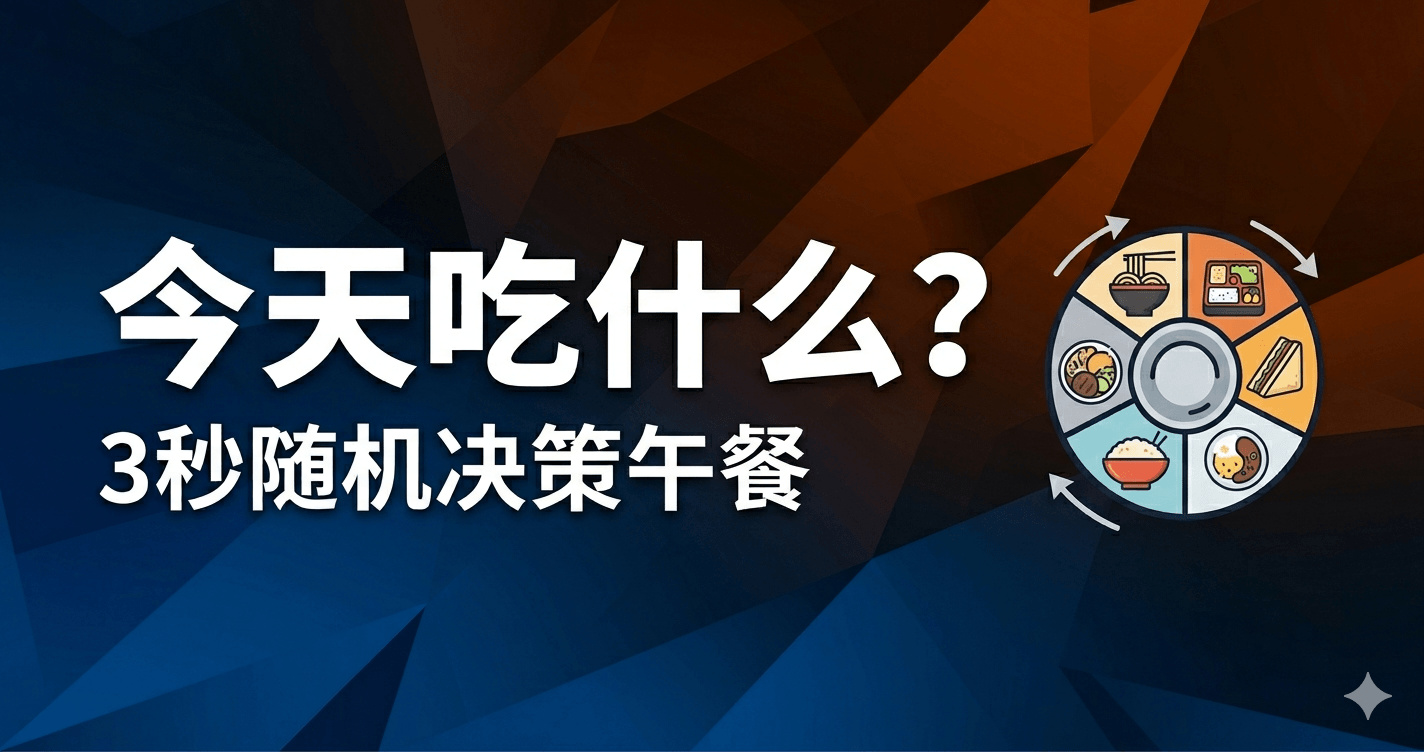
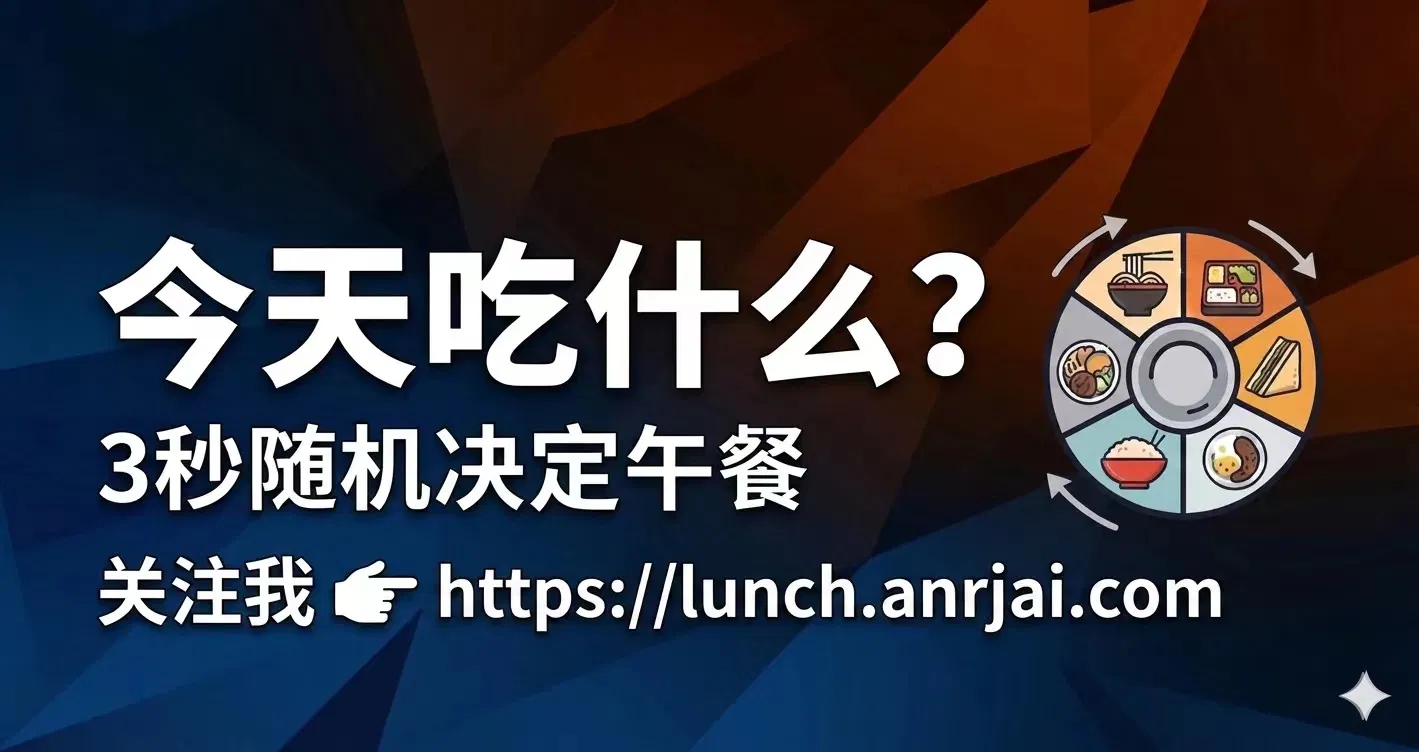
Add files via upload

diff --git a/couple.html b/couple.html
@@ -167,51 +167,19 @@
       </div>
     </div>
   </div>
+  <h2>情侣约会吃什么比较合适？</h2>
 
-  <section class="seo-text">
-    <h2>午餐选择困难怎么办？</h2>
-    <p>
-      每天中午不知道吃什么？很多人都会遇到“午餐选择困难”问题，打开外卖平台翻了十几分钟，最后还是不知道点什么。
-    </p>
-    <p>
-      本随机午餐转盘工具，可以帮助你快速随机决定今天吃什么，支持预算筛选、口味偏好、最近记录等功能，减少纠结时间，让午餐选择更轻松。
-    </p>
+  <p>
+  很多情侣约会时都会遇到一个问题：今天吃什么？火锅、烤肉、西餐、寿司、地方特色菜都是常见选择。不同预算和不同场景适合不同餐饮类型。
+  </p>
   
-    <h2>适合哪些人使用？</h2>
-    <ul class="seo-list">
-      <li>每天纠结午餐吃什么的上班族</li>
-      <li>经常点外卖的学生党</li>
-      <li>情侣随机决定吃什么</li>
-      <li>聚餐前快速决定餐饮类型</li>
-      <li>不知道今天吃什么的人</li>
-    </ul>
+  <p>
+  情侣吃饭不仅是填饱肚子，也是交流感情的重要时间。随机情侣用餐推荐工具可以帮助双方快速获得灵感，减少选择困难。
+  </p>
   
-    <h2>热门午餐推荐</h2>
-    <p>
-      火锅、黄焖鸡、麻辣烫、炸鸡、寿司、汉堡、盖浇饭、轻食沙拉、拉面、牛肉饭等都可以随机推荐。
-    </p>
-  
-    <h2>常见问题 FAQ</h2>
-    <h3>这个午餐转盘是随机的吗？</h3>
-    <p>
-      是的，系统会根据你的预算和口味偏好，随机推荐适合的午餐选择。
-    </p>
-  
-    <h3>需要开启定位吗？</h3>
-    <p>
-      不需要。即使关闭定位，也可以正常使用全国随机午餐推荐功能。
-    </p>
-  
-    <h3>是否会自动跳转外卖平台？</h3>
-    <p>
-      不会。所有平台入口均为用户主动点击，无默认跳转、无强制下载。
-    </p>
-  
-    <h3>支持全国使用吗？</h3>
-    <p>
-      支持。无论你在国内哪个城市，都可以正常使用随机午餐功能。
-    </p>
-  </section>
+  <p>
+  无论是第一次约会、纪念日还是周末聚餐，都可以通过随机推荐发现新的美食体验，让每次约会更有新鲜感。
+  </p>
   
   <section class="related-links">
     <h2>🍽 更多选择工具</h2>

diff --git a/diet.html b/diet.html
@@ -171,51 +171,20 @@
     </div>
   </div>
 
-  <section class="seo-text">
-    <h2>早餐选择困难怎么办？</h2>
-    <p>
-      每天中午不知道吃什么？很多人都会遇到“早餐选择困难”问题，打开外卖平台翻了十几分钟，最后还是不知道点什么。
-    </p>
-    <p>
-      本随机早餐转盘工具，可以帮助你快速随机决定今天吃什么，支持预算筛选、口味偏好、最近记录等功能，减少纠结时间，让早餐选择更轻松。
-    </p>
+  <h2>减脂期间吃什么比较好？</h2>
+
+  <p>
+  很多人在减脂期间都会遇到不知道吃什么的问题。合理的减脂饮食并不是节食，而是在保证营养的前提下控制热量摄入。
+  </p>
   
-    <h2>适合哪些人使用？</h2>
-    <ul class="seo-list">
-      <li>每天纠结早餐吃什么的上班族</li>
-      <li>经常点外卖的学生党</li>
-      <li>情侣随机决定吃什么</li>
-      <li>聚餐前快速决定餐饮类型</li>
-      <li>不知道今天吃什么的人</li>
-    </ul>
+  <p>
+  常见减脂餐包括鸡胸肉、鸡蛋、牛肉、蔬菜沙拉、燕麦、水果以及低糖食品。随机减脂餐推荐工具能够帮助用户获得更多饮食灵感。
+  </p>
   
-    <h2>热门早餐推荐</h2>
-    <p>
-      火锅、黄焖鸡、麻辣烫、炸鸡、寿司、汉堡、盖浇饭、轻食沙拉、拉面、牛肉饭等都可以随机推荐。
-    </p>
-  
-    <h2>常见问题 FAQ</h2>
-    <h3>这个早餐转盘是随机的吗？</h3>
-    <p>
-      是的，系统会根据你的预算和口味偏好，随机推荐适合的早餐选择。
-    </p>
-  
-    <h3>需要开启定位吗？</h3>
-    <p>
-      不需要。即使关闭定位，也可以正常使用全国随机早餐推荐功能。
-    </p>
-  
-    <h3>是否会自动跳转外卖平台？</h3>
-    <p>
-      不会。所有平台入口均为用户主动点击，无默认跳转、无强制下载。
-    </p>
-  
-    <h3>支持全国使用吗？</h3>
-    <p>
-      支持。无论你在国内哪个城市，都可以正常使用随机早餐功能。
-    </p>
-  </section>
-  
+  <p>
+  长期坚持规律饮食和适量运动，比短期极端节食更容易达到理想效果。科学饮食是保持健康生活方式的重要组成部分。
+  </p>
+    
   <section class="related-links">
     <h2>🍽 更多选择工具</h2>
     <ul>

diff --git a/breakfast.html b/breakfast.html
@@ -171,50 +171,19 @@
     </div>
   </div>
 
-  <section class="seo-text">
-    <h2>早餐选择困难怎么办？</h2>
-    <p>
-      每天中午不知道吃什么？很多人都会遇到“早餐选择困难”问题，打开外卖平台翻了十几分钟，最后还是不知道点什么。
-    </p>
-    <p>
-      本随机早餐转盘工具，可以帮助你快速随机决定今天吃什么，支持预算筛选、口味偏好、最近记录等功能，减少纠结时间，让早餐选择更轻松。
-    </p>
-  
-    <h2>适合哪些人使用？</h2>
-    <ul class="seo-list">
-      <li>每天纠结早餐吃什么的上班族</li>
-      <li>经常点外卖的学生党</li>
-      <li>情侣随机决定吃什么</li>
-      <li>聚餐前快速决定餐饮类型</li>
-      <li>不知道今天吃什么的人</li>
-    </ul>
-  
-    <h2>热门早餐推荐</h2>
-    <p>
-      火锅、黄焖鸡、麻辣烫、炸鸡、寿司、汉堡、盖浇饭、轻食沙拉、拉面、牛肉饭等都可以随机推荐。
-    </p>
-  
-    <h2>常见问题 FAQ</h2>
-    <h3>这个早餐转盘是随机的吗？</h3>
-    <p>
-      是的，系统会根据你的预算和口味偏好，随机推荐适合的早餐选择。
-    </p>
-  
-    <h3>需要开启定位吗？</h3>
-    <p>
-      不需要。即使关闭定位，也可以正常使用全国随机早餐推荐功能。
-    </p>
-  
-    <h3>是否会自动跳转外卖平台？</h3>
-    <p>
-      不会。所有平台入口均为用户主动点击，无默认跳转、无强制下载。
-    </p>
-  
-    <h3>支持全国使用吗？</h3>
-    <p>
-      支持。无论你在国内哪个城市，都可以正常使用随机早餐功能。
-    </p>
-  </section>
+  <h2>早餐吃什么比较好？</h2>
+
+<p>
+早餐是一天的重要开始。很多上班族和学生每天早上都会遇到不知道吃什么的问题。常见早餐包括包子、豆浆、鸡蛋、三明治、燕麦、牛奶和水果等。
+</p>
+
+<p>
+使用随机早餐选择工具，可以快速获得早餐灵感，减少纠结时间。对于赶时间的人来说，提前决定早餐内容能够提高效率。
+</p>
+
+<p>
+合理的早餐搭配有助于补充能量，提高学习和工作效率。建议适当搭配蛋白质、碳水化合物和水果，让早餐更加均衡。
+</p>
   
   <section class="related-links">
     <h2>🍽 更多选择工具</h2>

diff --git a/dinner.html b/dinner.html
@@ -171,50 +171,19 @@
     </div>
   </div>
 
-  <section class="seo-text">
-    <h2>早餐选择困难怎么办？</h2>
-    <p>
-      每天中午不知道吃什么？很多人都会遇到“早餐选择困难”问题，打开外卖平台翻了十几分钟，最后还是不知道点什么。
-    </p>
-    <p>
-      本随机早餐转盘工具，可以帮助你快速随机决定今天吃什么，支持预算筛选、口味偏好、最近记录等功能，减少纠结时间，让早餐选择更轻松。
-    </p>
+  <h2>晚餐吃什么比较合适？</h2>
+
+  <p>
+  晚餐是很多家庭一天中最重要的一餐。面对众多选择时，很多人经常不知道晚上吃什么。常见晚餐包括米饭、面食、火锅、炒菜、烧烤和轻食等。
+  </p>
   
-    <h2>适合哪些人使用？</h2>
-    <ul class="seo-list">
-      <li>每天纠结早餐吃什么的上班族</li>
-      <li>经常点外卖的学生党</li>
-      <li>情侣随机决定吃什么</li>
-      <li>聚餐前快速决定餐饮类型</li>
-      <li>不知道今天吃什么的人</li>
-    </ul>
+  <p>
+  随机晚餐推荐工具能够帮助用户快速决定晚餐内容，减少选择困难。通过尝试不同类型的食物，也能够让饮食更加丰富。
+  </p>
   
-    <h2>热门早餐推荐</h2>
-    <p>
-      火锅、黄焖鸡、麻辣烫、炸鸡、寿司、汉堡、盖浇饭、轻食沙拉、拉面、牛肉饭等都可以随机推荐。
-    </p>
-  
-    <h2>常见问题 FAQ</h2>
-    <h3>这个早餐转盘是随机的吗？</h3>
-    <p>
-      是的，系统会根据你的预算和口味偏好，随机推荐适合的早餐选择。
-    </p>
-  
-    <h3>需要开启定位吗？</h3>
-    <p>
-      不需要。即使关闭定位，也可以正常使用全国随机早餐推荐功能。
-    </p>
-  
-    <h3>是否会自动跳转外卖平台？</h3>
-    <p>
-      不会。所有平台入口均为用户主动点击，无默认跳转、无强制下载。
-    </p>
-  
-    <h3>支持全国使用吗？</h3>
-    <p>
-      支持。无论你在国内哪个城市，都可以正常使用随机早餐功能。
-    </p>
-  </section>
+  <p>
+  建议晚餐适量增加蔬菜和蛋白质摄入，避免过量油炸食品和高糖饮料，养成更健康的饮食习惯。
+  </p>
   
   <section class="related-links">
     <h2>🍽 更多选择工具</h2>

diff --git a/decision.html b/decision.html
@@ -166,50 +166,19 @@
     </div>
   </div>
 
-  <section class="seo-text">
-    <h2>午餐选择困难怎么办？</h2>
-    <p>
-      每天中午不知道吃什么？很多人都会遇到“午餐选择困难”问题，打开外卖平台翻了十几分钟，最后还是不知道点什么。
-    </p>
-    <p>
-      本随机午餐转盘工具，可以帮助你快速随机决定今天吃什么，支持预算筛选、口味偏好、最近记录等功能，减少纠结时间，让午餐选择更轻松。
-    </p>
+  <h2>选择困难症怎么办？</h2>
+
+  <p>
+  很多人在面对多个选项时会陷入选择困难，不知道应该如何决定。无论是吃什么、去哪玩还是购买什么产品，都可能花费大量时间思考。
+  </p>
   
-    <h2>适合哪些人使用？</h2>
-    <ul class="seo-list">
-      <li>每天纠结午餐吃什么的上班族</li>
-      <li>经常点外卖的学生党</li>
-      <li>情侣随机决定吃什么</li>
-      <li>聚餐前快速决定餐饮类型</li>
-      <li>不知道今天吃什么的人</li>
-    </ul>
+  <p>
+  随机选择工具能够帮助用户快速缩小范围，提高决策效率。通过减少反复比较，可以把更多时间用于行动。
+  </p>
   
-    <h2>热门午餐推荐</h2>
-    <p>
-      火锅、黄焖鸡、麻辣烫、炸鸡、寿司、汉堡、盖浇饭、轻食沙拉、拉面、牛肉饭等都可以随机推荐。
-    </p>
-  
-    <h2>常见问题 FAQ</h2>
-    <h3>这个午餐转盘是随机的吗？</h3>
-    <p>
-      是的，系统会根据你的预算和口味偏好，随机推荐适合的午餐选择。
-    </p>
-  
-    <h3>需要开启定位吗？</h3>
-    <p>
-      不需要。即使关闭定位，也可以正常使用全国随机午餐推荐功能。
-    </p>
-  
-    <h3>是否会自动跳转外卖平台？</h3>
-    <p>
-      不会。所有平台入口均为用户主动点击，无默认跳转、无强制下载。
-    </p>
-  
-    <h3>支持全国使用吗？</h3>
-    <p>
-      支持。无论你在国内哪个城市，都可以正常使用随机午餐功能。
-    </p>
-  </section>
+  <p>
+  对于经常纠结的人来说，适当借助随机工具是一种简单有效的方法，既节省时间，也能增加生活中的趣味性。
+  </p>
   
   <section class="related-links">
     <h2>🍽 更多选择工具</h2>
